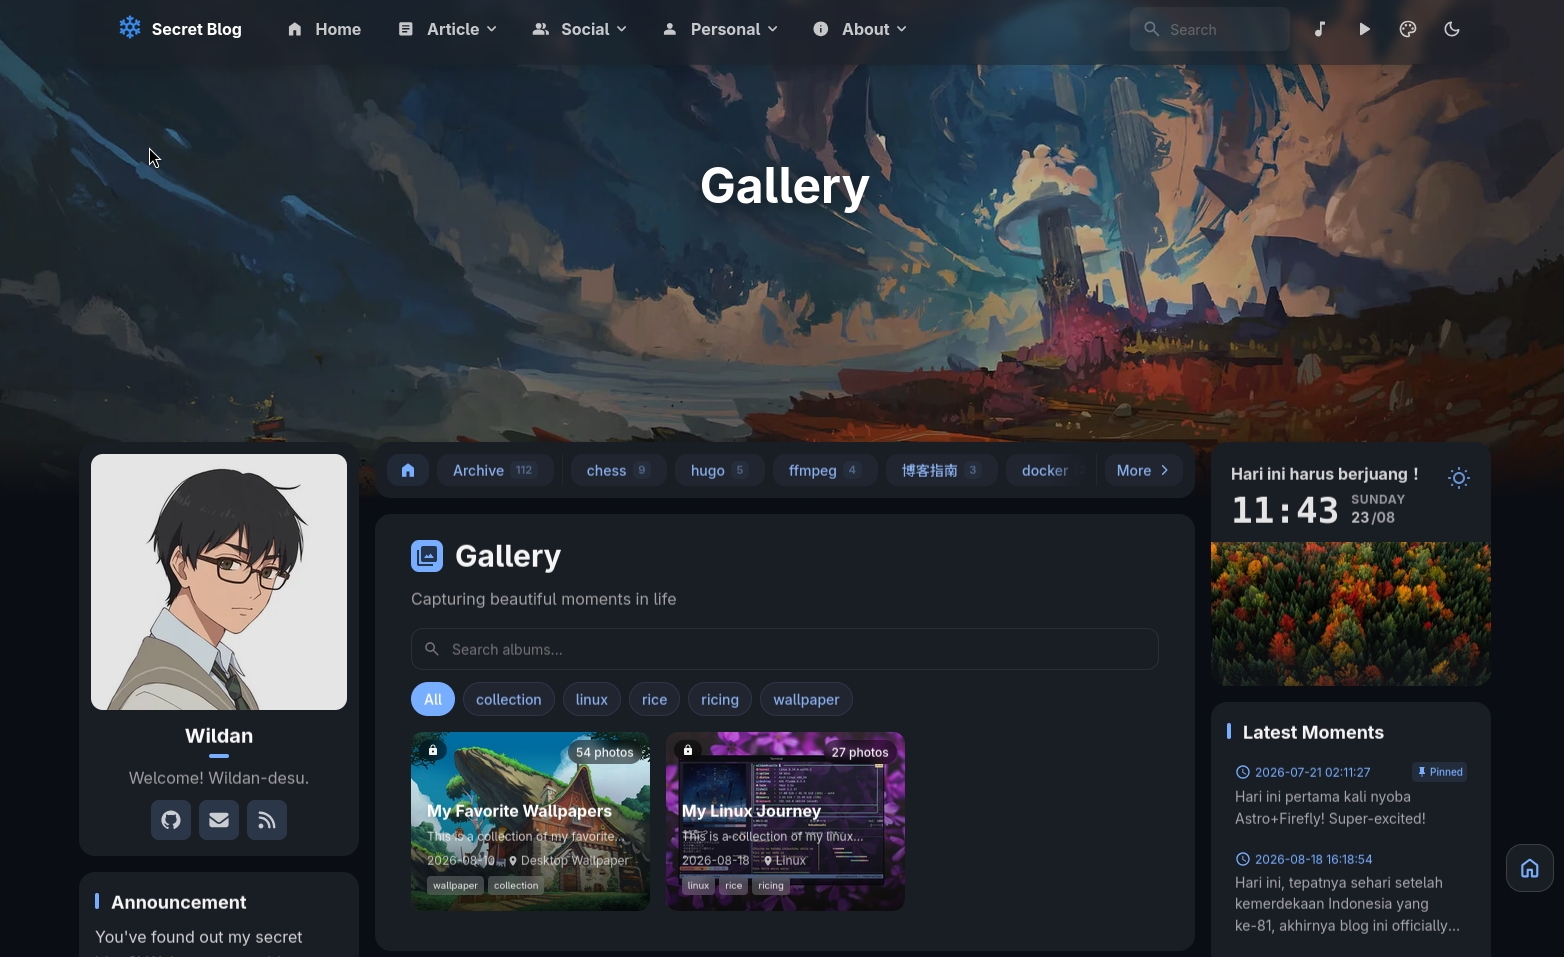
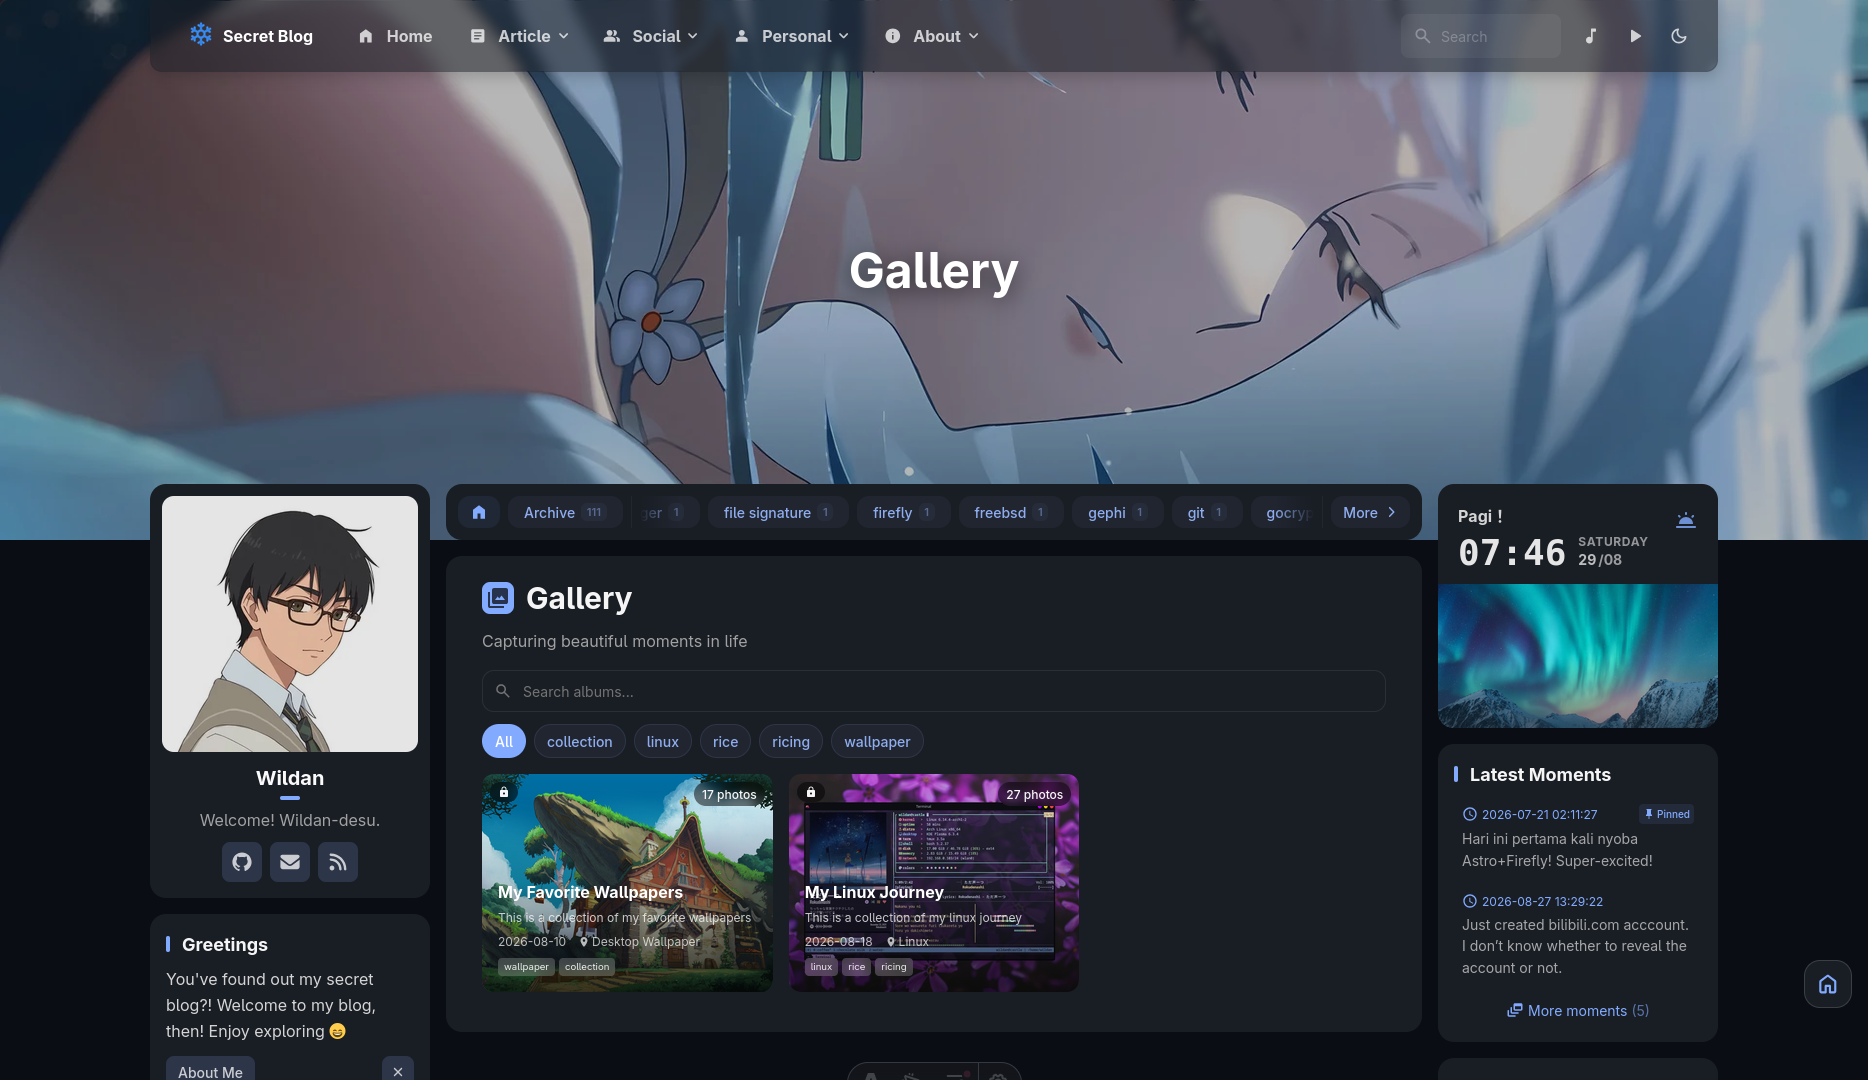
add new series

diff --git a/src/config/booknavConfig.ts b/src/config/booknavConfig.ts
@@ -157,7 +157,7 @@ export const booknavConfig: BooknavGroup[] = [
 		id: "resources",
 		name: "Resources",
 		icon: "material-symbols:auto-stories-outline-rounded",
-		desc: "Technologies behind this blog.",
+		desc: "Technologies and references behind this blog.",
 		weight: 90,
 		items: [
 			{
@@ -200,9 +200,8 @@ export const booknavConfig: BooknavGroup[] = [
 				weight: 5,
 			},
 			{
-				title: "Icones",
-				url: "https://icones.js.org/",
-				icon: "fa7-regular:face-kiss-wink-heart",
+				title: "Iconify",
+				url: "https://icon-sets.iconify.design/",
 				desc: "Icon Sets",
 				weight: 4,
 			},
@@ -222,15 +221,48 @@ export const booknavConfig: BooknavGroup[] = [
 				weight: 10,
 			},
 			{
+				title: "Github Pages",
+				url: "https://docs.github.com/en/pages",
+				desc: "Free hosting site from Github",
+				weight: 9,
+			},
+			{
 				title: "Wistia",
 				url: "https://wistia.com/",
 				desc: "Video hosting",
-				weight: 9,
+				weight: 8,
 			},
 			{
 				title: "ImgBB",
 				url: "https://imgbb.com/",
-				desc: "Free Image Hosting",
+				desc: "Image Hosting",
+				weight: 7,
+			},
+		],
+	},
+	{
+		id: "benchmark",
+		name: "Benchmarking Sites",
+		icon: "material-symbols:data-thresholding-outline-rounded",
+		desc: "Sites for benchmarking",
+		weight: 70,
+		items: [
+			{
+				title: "DNS Checker",
+				url: "https://dnschecker.org",
+				desc: "DNS Lookup",
+				weight: 10,
+			},
+			{
+				title: "PageSpeed Insight",
+				url: "https://pagespeed.web.dev/",
+				desc: "PC and Mobile Website benchmark",
+				weight: 9,
+			},
+			{
+				title: "SpeedTest",
+				url: "https://www.speedtest.net/",
+				desc: "Internet Speed Test",
 				weight: 8,
 			},
 		],
@@ -240,7 +272,7 @@ export const booknavConfig: BooknavGroup[] = [
 		name: "Tools",
 		icon: "material-symbols:build-outline-rounded",
 		desc: "Useful tools",
-		weight: 70,
+		weight: 60,
 		items: [
 			{
 				title: "Virustotal",

diff --git a/src/config/siteConfig.ts b/src/config/siteConfig.ts
@@ -230,7 +230,7 @@ export const siteConfig: SiteConfig = {
 		// 文章页底部的"上次编辑时间"卡片开关
 		showLastModified: true,
 		// 文章过期阈值（天数），超过此天数才显示"上次编辑"卡片
-		outdatedThreshold: 30,
+		outdatedThreshold: 90,
 		// 是否开启分享海报生成功能
 		sharePoster: true,
 		// OpenGraph图片功能，注意开启后要渲染很长时间，不建议本地调试的时候开启

diff --git a/src/config/coverImageConfig.ts b/src/config/coverImageConfig.ts
@@ -19,10 +19,10 @@ import type { CoverImageConfig } from "../types/coverImageConfig";
  */
 export const coverImageConfig: CoverImageConfig = {
 	// 是否在文章详情页显示封面图
-	enableInPost: false,
+	enableInPost: true,
 
 	// 是否使用标题和元数据叠加在封面上的布局
-	enableInPostOverlay: false,
+	enableInPostOverlay: true,
 
 	// 是否显示转圈圈加载动画，会替代掉LQIP
 	showLoading: false,

diff --git a/src/config/announcementConfig.ts b/src/config/announcementConfig.ts
@@ -2,7 +2,7 @@ import type { AnnouncementConfig } from "../types/announcementConfig";
 
 export const announcementConfig: AnnouncementConfig = {
 	// 公告标题, 留空则走i18n默认标题
-	title: "Announcement",
+	title: "Greetings",
 
 	// 公告内容
 	content: "You've found out my secret blog?! Welcome to my blog, then! Enjoy exploring 😄",

diff --git a/src/content/posts/tech/scrcpy.md b/src/content/posts/tech/scrcpy.md
@@ -6,6 +6,8 @@ image: "../images/scrcpy/featured.png"
 description: "Mirroring your android devices can never be this easy with open source tool: Scrcpy"
 tags: ["scrcpy", "android", "wireless", "adb", "linux"]
 category: "scrcpy"
+series: "Connecting Android to PC/Laptop"
+seriesOrder: 1
 ---
 
 Pernahkah kalian melihat youtuber game online android di Youtube, tapi menggunakan kursor seperti sedang berada di komputer atau laptop? Misalnya, seperti salah satu game dari Moonton, ["Magic Chess Go Go (MCGG)"](https://play.mc-gogo.com/) yang dimainkan oleh salah satu youtuber, [Bass Klemens](https://www.youtube.com/@bassklemens)?

diff --git a/src/content/posts/tech/ffmpeg-mp42gif.md b/src/content/posts/tech/ffmpeg-mp42gif.md
@@ -7,7 +7,7 @@ description: "My simple note in regards of converting video (MP4) to GIF."
 tags: ["MP4 to GIF", "tutorial", "ffmpeg", "Video Converter"]
 category: "ffmpeg"
 series: "FFmpeg Tutorial"
-seriesOrder: 2
+seriesOrder: 4
 ---
 
 Terkadang, GIF punya kelebihan dibandingkan dengan file video, terutama dalam hal ukuran file. Dengan kualitas gambar yang hampir sama dengan video, file GIF bisa berukuran lebih kecil dari file video. Contohnya, saya punya sebuah file video rekaman layar 720p berdurasi 25 detik, dan satu file GIF yang merupakan hasil konversi video sebelumnya:

diff --git a/src/content/posts/tech/excel1.md b/src/content/posts/tech/excel1.md
@@ -6,6 +6,8 @@ image: "../images/excel1/featured.png"
 description: "6 basic excel (spreadsheet) functions / formulas: SUM, AVERAGE, MAX, MIN, COUNT, COUNTIF"
 tags: ["excel", "spreadsheet", "data", "data analysis"]
 category: "excel"
+series: "Excel Tutorial"
+seriesOrder: 1
 ---
 
 Di artikel ini, kita akan belajar menggunakan 6 fungsi dasar di Microsoft Excel atau Google Spreadsheet, yaitu **SUM**, **AVERAGE**, **MAX**, **MIN**, **COUNT**, dan **COUNTIF** [^1].

diff --git a/src/content/posts/tech/convertvideoformat.md b/src/content/posts/tech/convertvideoformat.md
@@ -5,6 +5,8 @@ image: ../images/convertvideoformat/featured.png
 description: If you have ffmpeg installed on your Linux machine, then it actually could help you to convert any video format to MP4!
 tags: ["ffmpeg", "tutorial", "video format"]
 category: ffmpeg
+series: "FFmpeg Tutorial"
+seriesOrder: 2
 ---
 
 Sebetulnya, perintahnya sangat mudah, tapi supaya saya lebih mudah mengingatnya, maka saya akan abadikan dalam artikel ini[^1]:

diff --git a/src/content/posts/tech/adb_wireless.md b/src/content/posts/tech/adb_wireless.md
@@ -7,6 +7,8 @@ image: ../images/adb_wireless/featured.png
 description: "Connecting your Android device through a USB is pretty mainstream. I will show you that you are actually able to connect it directly through wireless connection here."
 tags: ["adb-wireless", "adb", "android", "wireless", "linux"]
 category: "adb-wirelss"
+series: "Connecting Android to PC/Laptop"
+seriesOrder: 3
 ---
 
 

diff --git a/src/content/posts/tech/android-mtp.md b/src/content/posts/tech/android-mtp.md
@@ -7,6 +7,8 @@ image: ../images/android-mtp/featured.png
 description: "Are you wondering about how to connect your Android phone to Archlinux through a USB? Here, I will explain the easiest way (GUI & CLI) to do that."
 tags: ["android", "mtp", "archlinux", "linux", "libmtp"]
 category: "android-mtp"
+series: "Connecting Android to PC/Laptop"
+seriesOrder: 2
 ---
 
 ## Preambul

diff --git a/src/content/posts/tech/excel2.md b/src/content/posts/tech/excel2.md
@@ -6,6 +6,8 @@ image: "../images/excel2/featured.png"
 description: "6 basic excel (spreadsheet) functions / formulas: SUMIF, CONCATENATE, MATCH, (LEFT, MID, RIGHT), (HLOOKUP & VLOOKUP), TRANSPOSE"
 tags: ["excel", "spreadsheet", "data", "data analysis"]
 category: "excel"
+series: "Excel Tutorial"
+seriesOrder: 2
 ---
 
 
